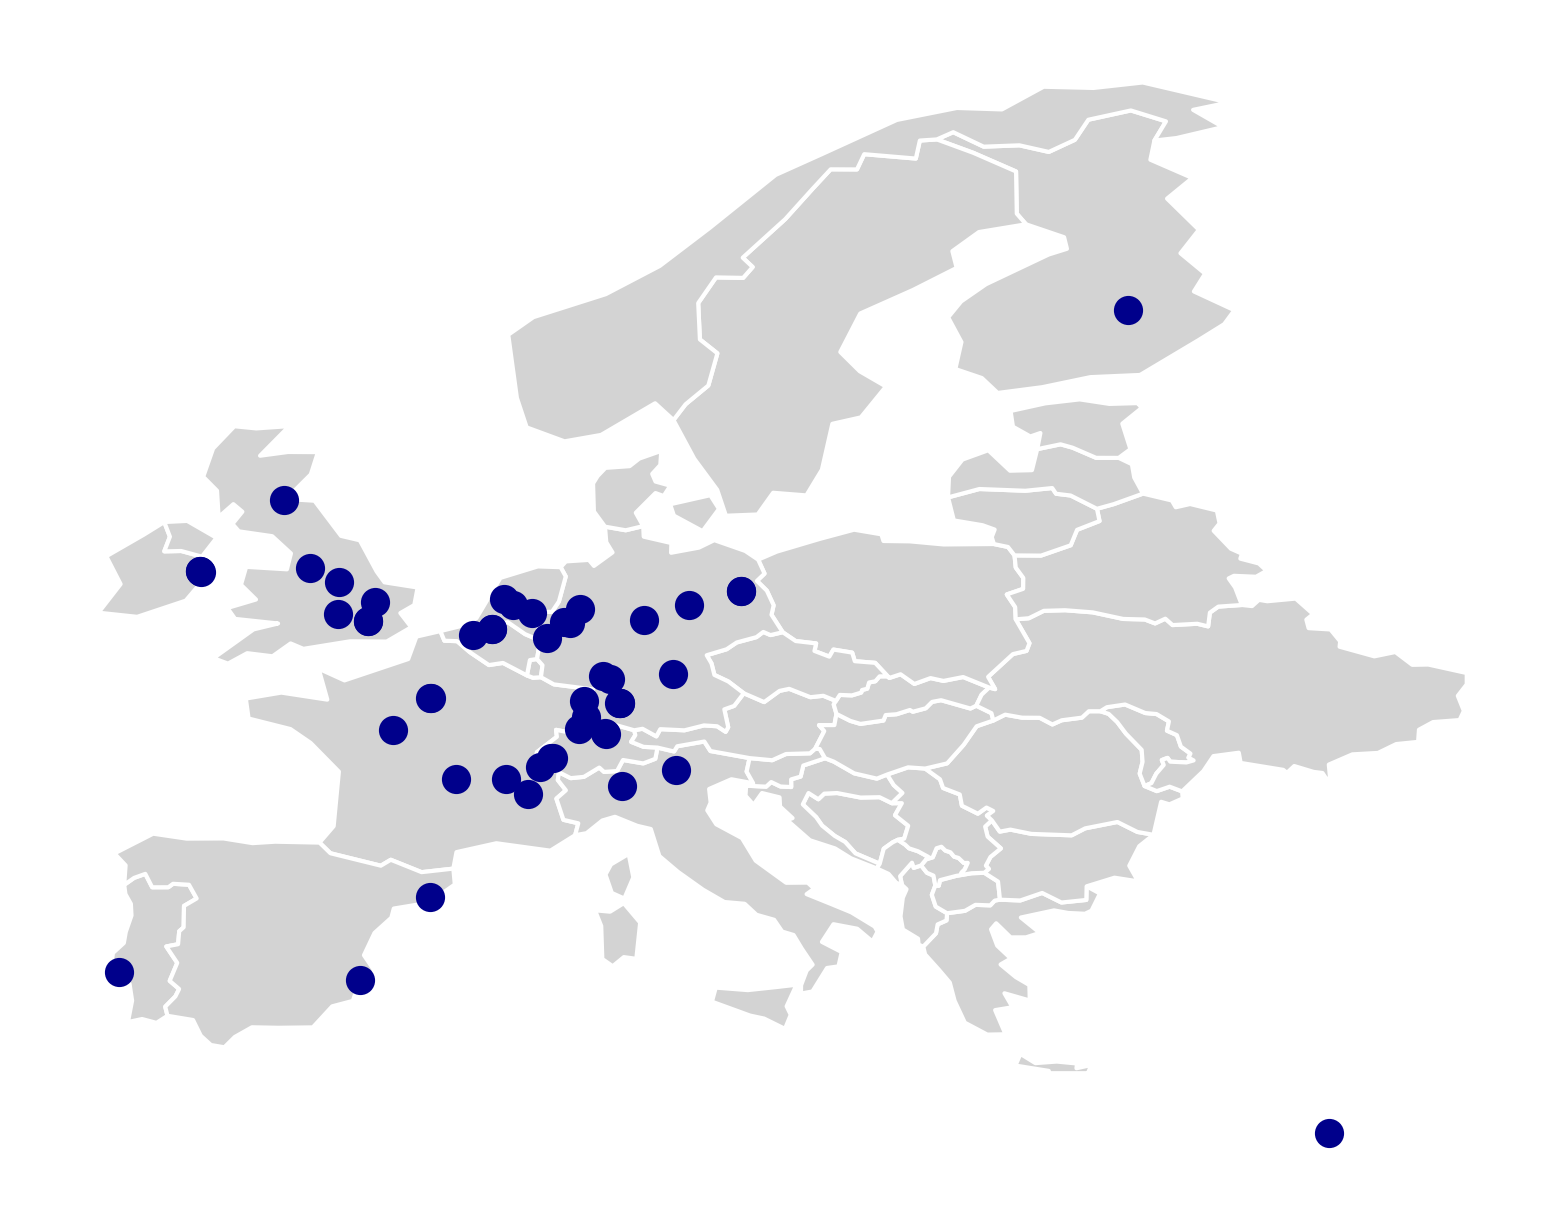
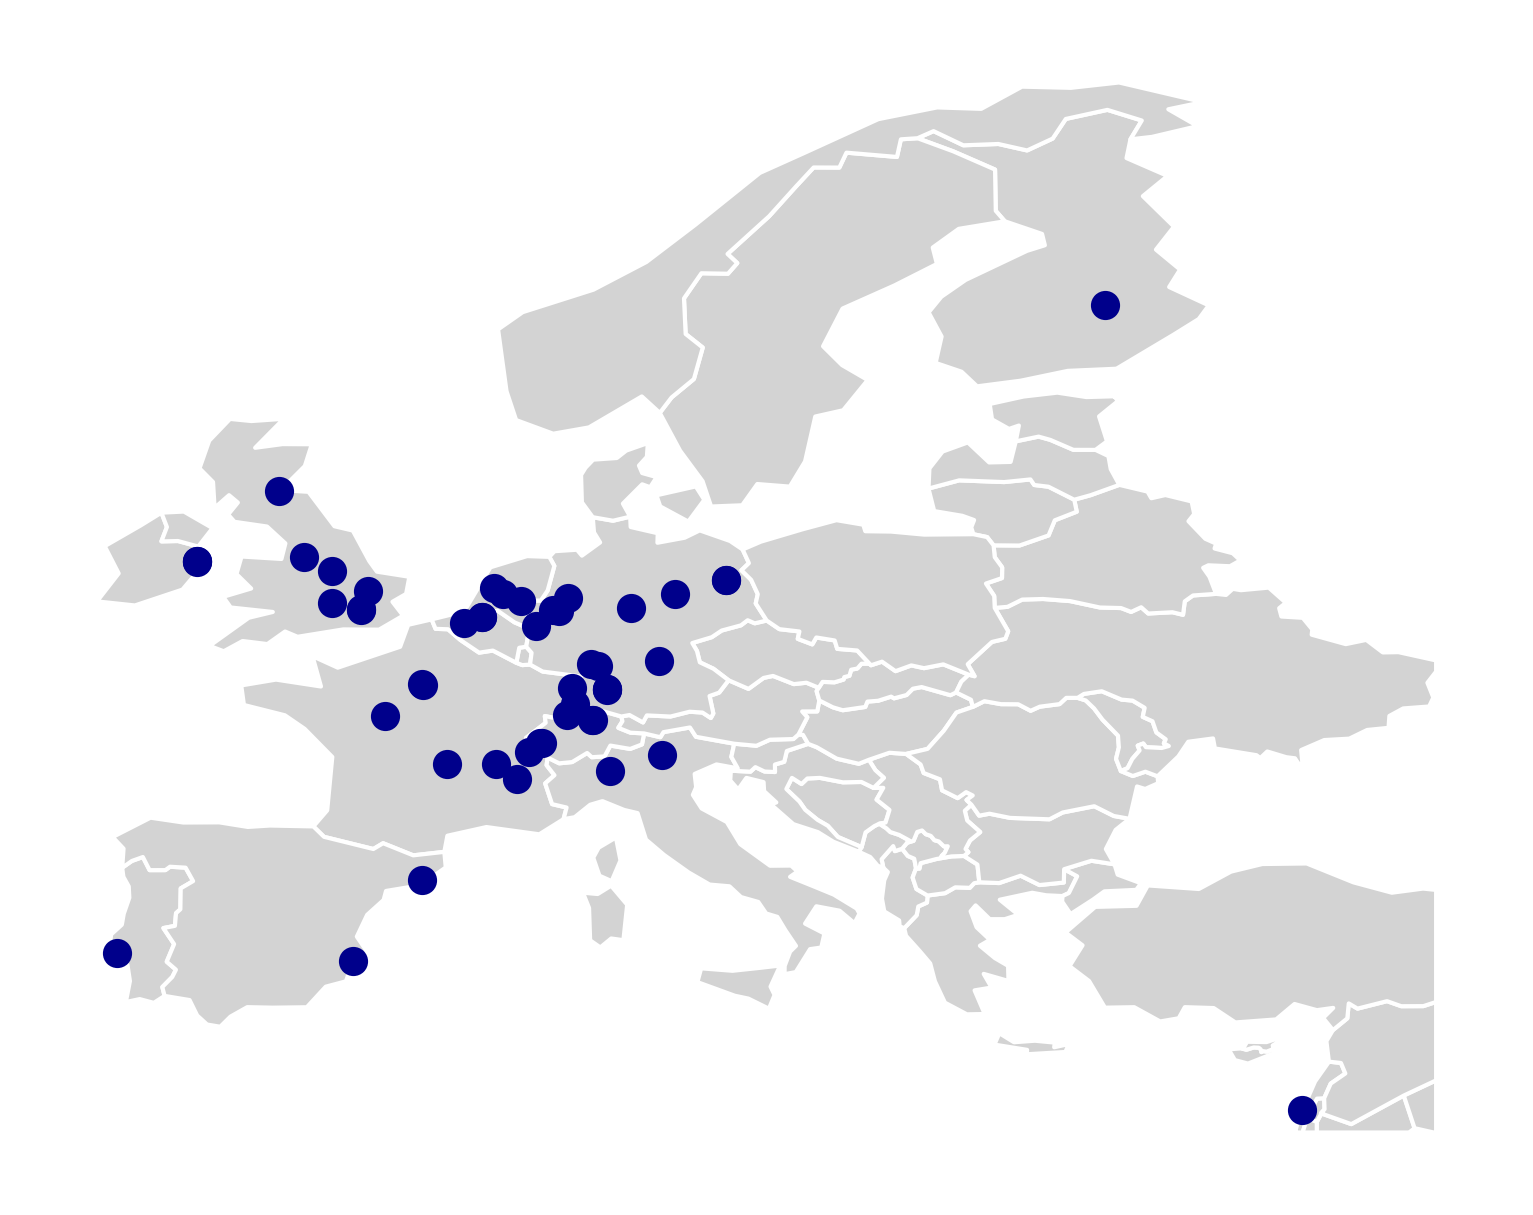
updated to show israel

diff --git a/etc/geoplot/geoplot.md b/etc/geoplot/geoplot.md
@@ -35,10 +35,10 @@ Make europe plot
 countries = ['The Netherlands', 'France', 'Germany', 'Finland', 'Switzerland','UK','Ireland', 'Belgium', 'Italy', 'Spain','Netherlands', 'Portugal', 'Israel']
 gdf_europe = gdf[gdf.Country.isin(countries)]
 
-europe=world[world.CONTINENT=="Europe"]
+europe=world[(world.CONTINENT=="Europe") | (world.CONTINENT=="Asia")]
 europe=europe[(europe.ADMIN!="Russia") & (europe.ADMIN!="Iceland")]
 
-polygon = Polygon([(-25,35), (40,35), (40,75),(-25,75)])
+polygon = Polygon([(-25,32), (40,32), (40,75),(-25,75)])
 poly_gdf = geopandas.GeoDataFrame([1], geometry=[polygon], crs=world.crs)
 europe=geopandas.clip(europe, polygon) 
 ax = europe.plot(color='lightgrey', edgecolor='white')
